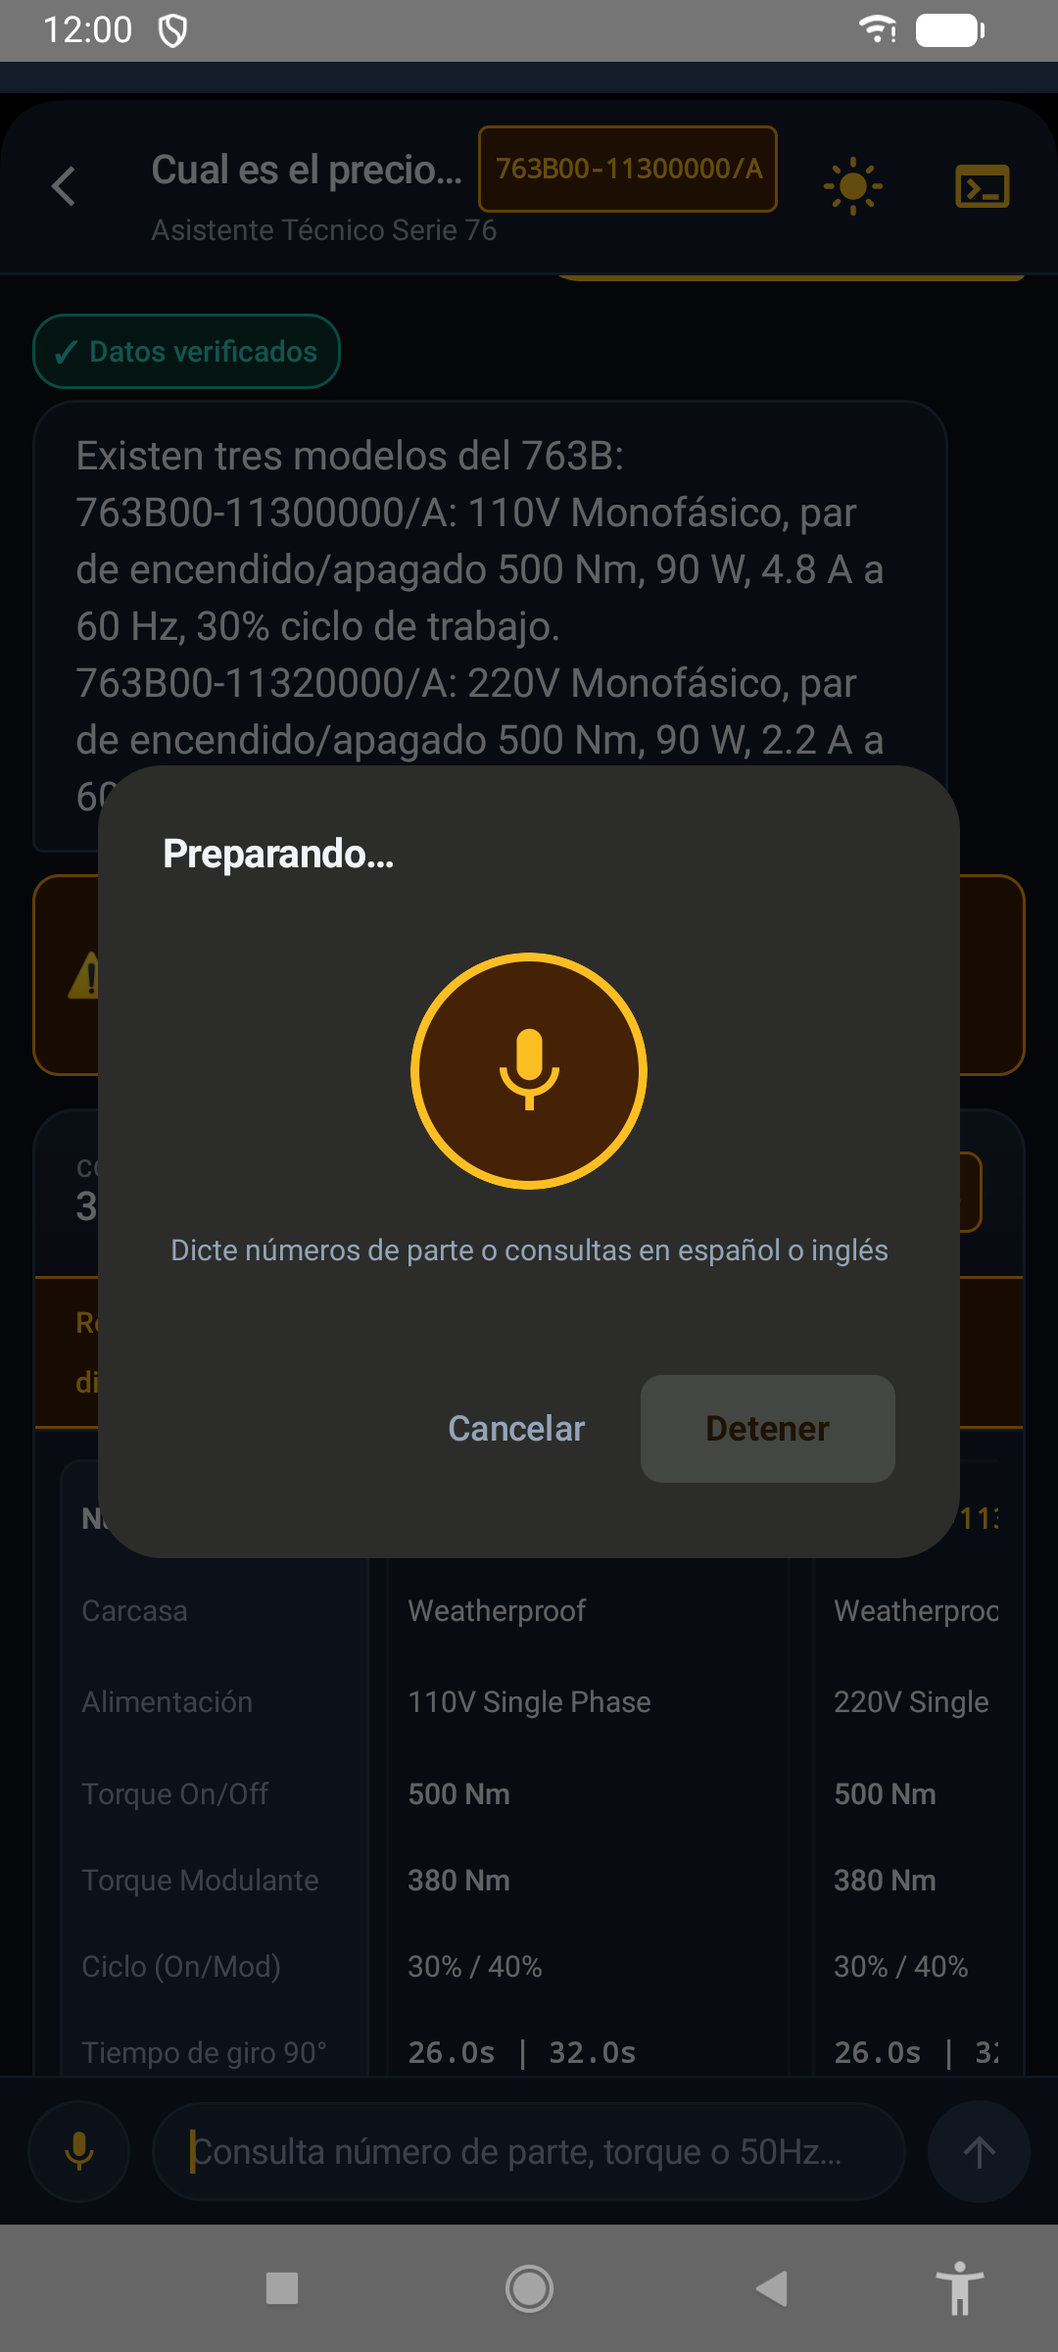
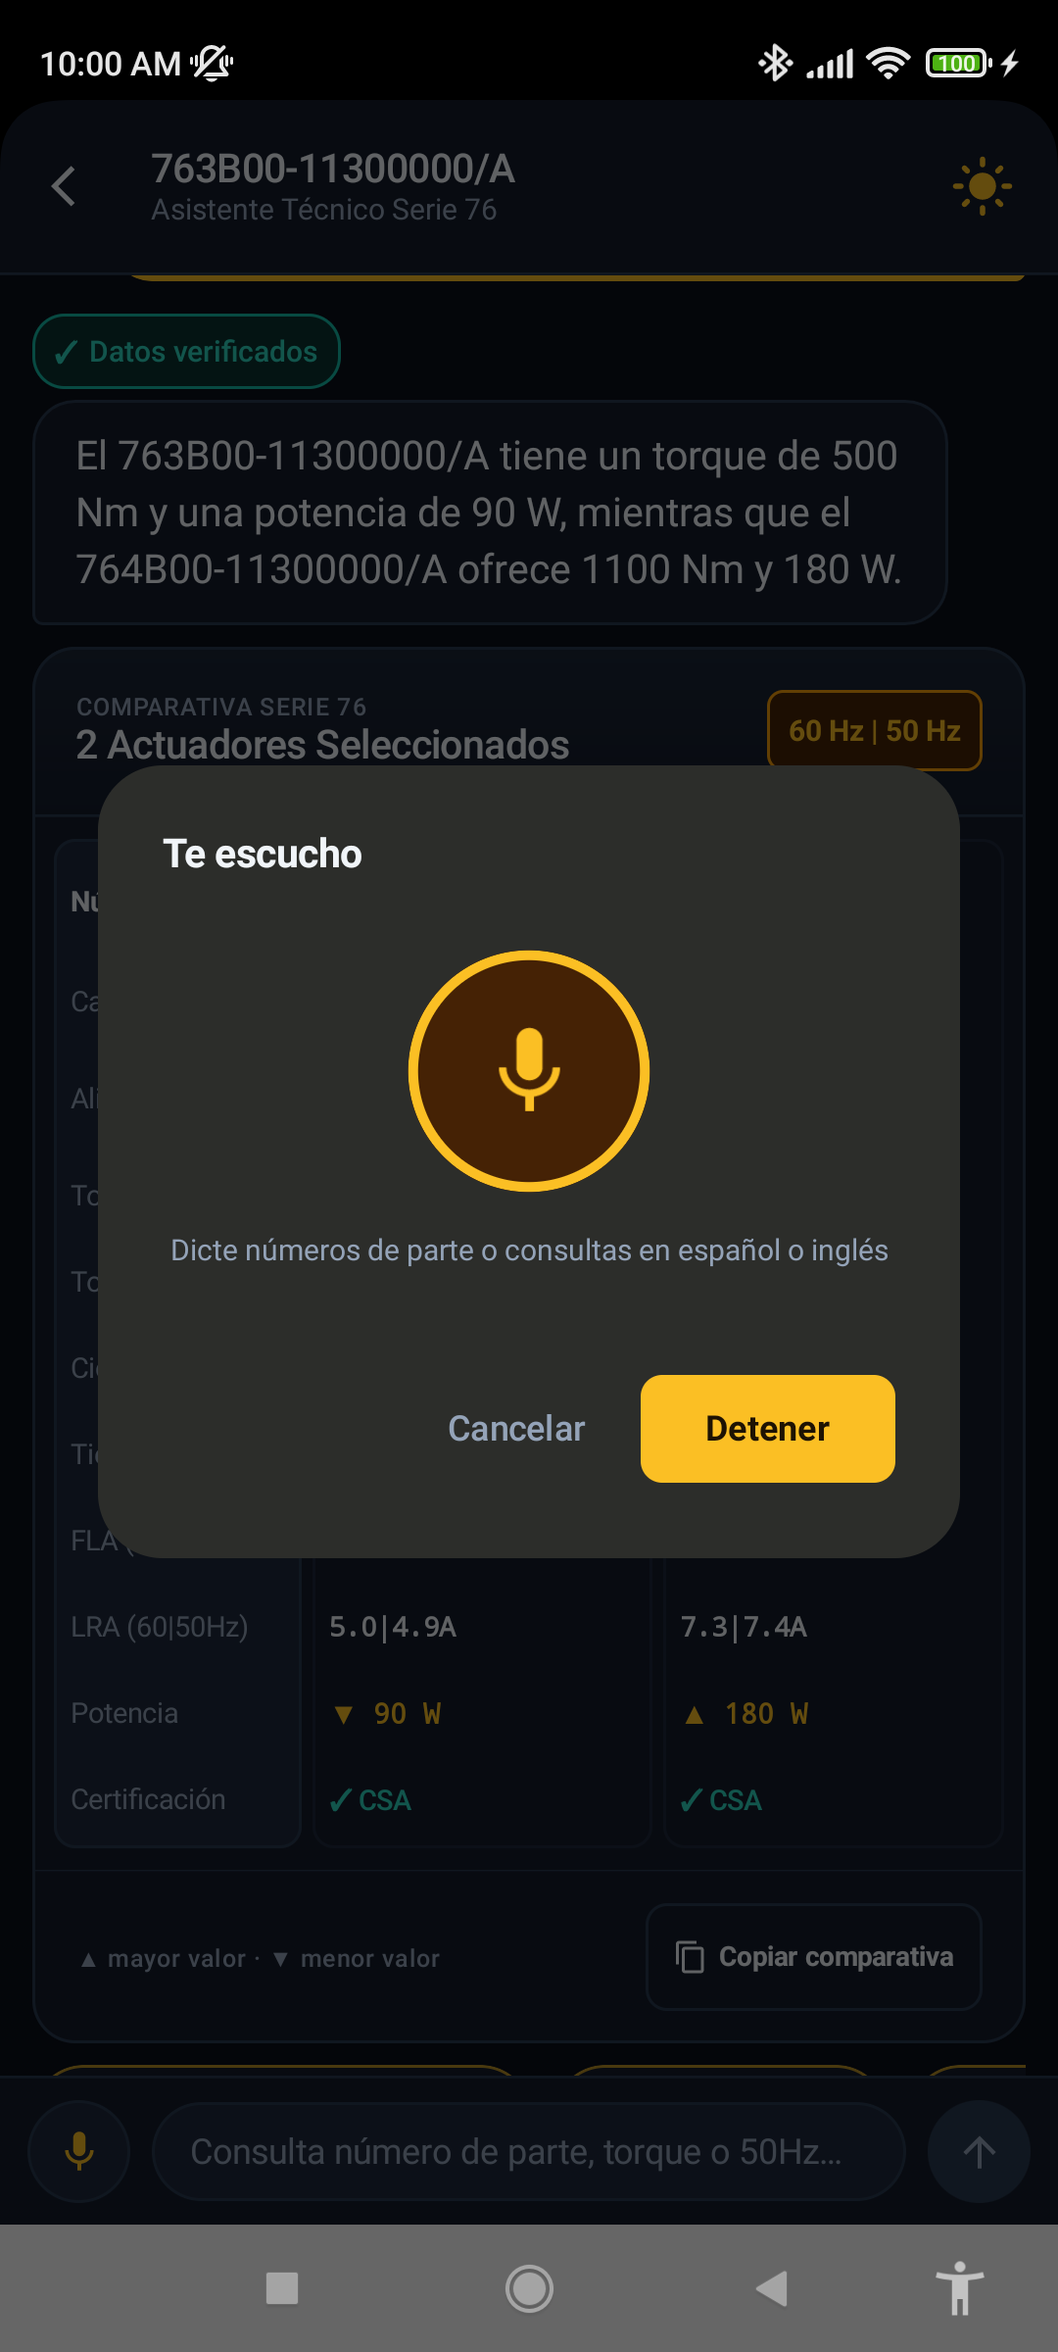
feat(mobile): cierre 5b insets ficha completa y capturas finales verificadas

diff --git a/mobile-app/app/src/main/java/io/konecto/series76/ui/ChatComponents.kt b/mobile-app/app/src/main/java/io/konecto/series76/ui/ChatComponents.kt
@@ -2070,8 +2070,9 @@ fun ActuatorFullDatasheetSheet(
         Column(
             modifier = Modifier
                 .fillMaxWidth()
+                .navigationBarsPadding()
                 .padding(horizontal = Spacing.m)
-                .padding(bottom = Spacing.l)
+                .padding(bottom = Spacing.xl)
                 .verticalScroll(rememberScrollState()),
             verticalArrangement = Arrangement.spacedBy(Spacing.s)
         ) {

diff --git a/docs/screenshots/README.md b/docs/screenshots/README.md
@@ -11,12 +11,12 @@ Este documento certifica la auditoría visual y funcional exhaustiva de la aplic
 | 01 | [`01-login.png`](01-login.png) | Pantalla de inicio de sesión con branding y botón de acceso rápido | 1080 × 2400 | Oscuro | ✓ (10:00 AM, 100% bat, sin notif.) |
 | 02 | [`02-sesiones.png`](02-sesiones.png) | Historial de consultas técnicas con números de parte completos en FlowRow | 1080 × 2400 | Oscuro | ✓ (10:00 AM, 100% bat, sin notif.) |
 | 03 | [`03-ficha-actuador.png`](03-ficha-actuador.png) | Ficha técnica de actuador con relojes de torque, especificaciones e insignia de datos | 1080 × 2400 | Oscuro | ✓ (10:00 AM, 100% bat, sin notif.) |
-| 04 | [`04-comparacion.png`](04-comparacion.png) | Tabla comparativa de 2 columnas ajustada sin desbordamiento ni recorte horizontal | 1080 × 2400 | Oscuro | ✓ (10:00 AM, 100% bat, sin notif.) |
-| 05 | [`05-ficha-completa.png`](05-ficha-completa.png) | ModalBottomSheet con especificaciones mecánicas y eléctricas completas | 1080 × 2400 | Oscuro | ✓ (10:00 AM, 100% bat, sin notif.) |
-| 06 | [`06-voz-escuchando.png`](06-voz-escuchando.png) | Modal de reconocimiento de voz interactivo con botón de micrófono y cancelación | 1080 × 2400 | Oscuro | ✓ (Sin notificaciones personales) |
-| 07 | [`07-alerta.png`](07-alerta.png) | Manejo de modelo N/A con alerta amarilla, explicación técnica y alternativas | 1080 × 2400 | Oscuro | ✓ (12:00, sin notificaciones) |
-| 08 | [`08-modo-claro.png`](08-modo-claro.png) | Tabla comparativa y chips interactivos visualizados en tema claro de alto contraste | 1080 × 2400 | Claro | ✓ (10:00 AM, 100% bat, sin notif.) |
-| 09 | [`09-saludo.png`](09-saludo.png) | Saludo y capacidades generales con chips sugeridos y SIN insignia de verificación | 1080 × 2400 | Oscuro | ✓ (10:00 AM, 100% bat, sin notif.) |
+| 04 | [`04-comparacion.png`](04-comparacion.png) | Comparativa directa entre 763B00-11300000/A y 764B00-11300000/A con marcadores ▲/▼ | 1080 × 2400 | Oscuro | ✓ (10:00 AM, 100% bat, sin notif.) |
+| 05 | [`05-ficha-completa.png`](05-ficha-completa.png) | ModalBottomSheet con insets seguros sobre barra de navegación del sistema y scroll al final | 1080 × 2400 | Oscuro | ✓ (10:00 AM, 100% bat, sin notif.) |
+| 06 | [`06-voz-escuchando.png`](06-voz-escuchando.png) | Diálogo de voz en estado activo «Te escucho» con onda/micrófono interactivo | 1080 × 2400 | Oscuro | ✓ (10:00 AM, 100% bat, sin notif.) |
+| 07 | [`07-alerta.png`](07-alerta.png) | Manejo de modelo N/A (761A00-11330C00/A) con alerta única y tabla de alternativas completa | 1080 × 2400 | Oscuro | ✓ (10:00 AM, 100% bat, sin notif.) |
+| 08 | [`08-modo-claro.png`](08-modo-claro.png) | Misma comparativa técnica 763B vs 764B visualizada en tema claro de alto contraste | 1080 × 2400 | Claro | ✓ (10:00 AM, 100% bat, sin notif.) |
+| 09 | [`09-saludo.png`](09-saludo.png) | Saludo «hola, que puedes hacer?», chips sugeridos y SIN insignia «Datos verificados» | 1080 × 2400 | Oscuro | ✓ (10:00 AM, 100% bat, sin notif.) |
 
 ---
 
@@ -25,100 +25,103 @@ Este documento certifica la auditoría visual y funcional exhaustiva de la aplic
 ### 01-login.png
 - **Elementos Visibles:**
   - Logotipo e isotipo del actuador industrial Serie 76 con detalles de la aguja ranurada y cuerpo protector.
-  - Título `Series 76 Assistant` con subtítulo técnico.
-  - Campos de entrada: Correo Electrónico (`engineer@konecto.io`) y Contraseña corporativa.
-  - Campo URL de Conexión: `http://localhost:8001/` con indicador visual de conectividad.
-  - Botón primario de acción: `Iniciar Sesión` en color acento amarillo industrial.
+  - Título `Series 76 Assistant` con subtítulo técnico `Referencia Técnica de Ingeniería de Planta`.
+  - Campos de entrada: Correo Electrónico corporativo prellenado (`engineer@konecto.io`) y Contraseña (`••••••••••`).
+  - Campo URL de Conexión: `http://localhost:8001/` con botón `Cambiar`.
   - Botón secundario rápido: `Usar cuenta demo`.
-- **Insignias y Chips:** Ninguno (pantalla de autenticación).
-- **Ajuste y Verificación:** Sin cortes de texto, sin desbordamiento; padding seguro en muesca y barra de navegación.
+  - Botón primario de acción: `Iniciar Sesión` en acento amarillo industrial.
+  - Enlace inferior: `Continuar sin iniciar sesión`.
+- **Barra de Estado:** 10:00 AM, 100 % batería, sin notificaciones personales ni íconos ajenos.
 
 ### 02-sesiones.png
 - **Elementos Visibles:**
   - Cabecera: `Consultas`, usuario activo `Lead Plant Engineer • engineer@konecto.io`.
   - Iconos de acción rápida: Cambio de tema (sol), Configuración del servidor (engranaje), Actualizar (flecha circular), Salir.
-  - 6 tarjetas de historial de conversación real con fecha y conteo de mensajes:
-    1. *Recomendación 220V*: Muestra 5 números de parte completos (`763A00-11330C00/A`, `763B00-11330C00/A`, `763C00-11330C00/A`, `764A00-11330C00/A`, `764B00-11330C00/A`) organizados limpiamente en múltiples filas con `FlowRow`.
-    2. *hola necesito saber acerca de este proyecto de que se trata?* (4 mensajes).
-    3. *hola* (8 mensajes).
-    4. *763B00-11300000/A +1* (4 mensajes) con chips `763B00-11300000/A` y `763C00-11300000/A`.
-    5. *763B00-11300000/A* (2 mensajes) con chip `763B00-11300000/A`.
-    6. *763B00-11300000/A +2* (6 mensajes) con 3 chips completos.
+  - Tarjetas de historial de conversación real con fecha y conteo de mensajes:
+    - Tarjetas con múltiples números de parte completos (`761A00-11300000/A`, `761A00-11320000/A`, `763B00-11300000/A`, etc.) formateados mediante `FlowRow` sin truncamientos ni elipsis.
   - Botón flotante inferior: `+ Nueva Consulta` (Extended FAB en amarillo).
-- **Ajuste y Verificación:** Los números de parte están completos, sin elipsis ni texto truncado gracias a `FlowRow`.
+- **Barra de Estado:** 10:00 AM, 100 % batería, sin notificaciones.
 
 ### 03-ficha-actuador.png
 - **Elementos Visibles:**
-  - Consulta del usuario: `specs del 763B00-11300000/A`.
-  - Insignia de verificación: `✓ Datos verificados` en verde esmeralda.
-  - Respuesta del asistente: `763B00-11300000/A: torque on/off 500 Nm (4400 in-lbs), torque modulante 380 Nm (3350 in-lbs), potencia del motor 90 W.`
-  - Tarjeta de especificaciones:
-    - Etiqueta: `FICHA TÉCNICA SERIE 76 • TAMAÑO 3`
-    - Insignia de cerramiento: `🛡 WEATHERPROOF`
-    - Título del modelo: `763B00-11300000/A`
-    - Chips de características: `⚡ 110V Single Phase` y `✓ Certificado CSA`
-    - Medidor On/Off: 500 Nm (4400 in-lbs), ciclo 30%, 16 ciclos/h.
-    - Medidor Modulante: 380 Nm (3350 in-lbs), ciclo 40%, 960 arranques/h.
-    - Tabla comparativa 60 Hz / 50 Hz con tiempos de giro (26.0s / 32.0s), FLA (4.8A / 4.6A), LRA (5.0A / 4.9A) y potencia de 90 W.
-    - Botón de acción: `ℹ Ver ficha completa`.
-- **Ajuste y Verificación:** Tipografía nítida, gauges con arcos circulares continuos sin cortes, alineación vertical y horizontal perfecta.
+  - Cabecera con título del actuador consultado (`763B00-11300000/A`).
+  - Insignia `✓ Datos verificados` en verde esmeralda.
+  - Respuesta técnica del asistente en lenguaje natural.
+  - Tarjeta de especificaciones con badges `🛡 WEATHERPROOF`, `⚡ 110V Single Phase`, `✓ Certificado CSA`.
+  - Indicadores de torque On/Off (500 Nm) y Modulante (380 Nm) con arcos porcentuales legibles.
+  - Mini tabla 60 Hz / 50 Hz con tiempos de giro y corrientes.
+  - Botón de acción: `ℹ Ver ficha completa`.
+- **Barra de Estado:** 10:00 AM, 100 % batería, sin notificaciones.
 
 ### 04-comparacion.png
 - **Elementos Visibles:**
-  - Respuesta técnica sintetizada en burbuja: `763B00-11300000/A: tiempo de giro de 90° 26 s a 60 Hz, 32 s a 50 Hz. (+1 más en la ficha)`.
-  - Insignia de verificación: `✓ Datos verificados`.
+  - Consulta en nueva sesión: `compara el 763B00-11300000/A y el 764B00-11300000/A`.
+  - Insignia `✓ Datos verificados` presente.
+  - Respuesta del asistente mencionando explícitamente ambos modelos:
+    `El 763B00-11300000/A tiene un torque de 500 Nm y una potencia de 90 W, mientras que el 764B00-11300000/A ofrece 1100 Nm y 180 W.`
   - Cabecera: `COMPARATIVA SERIE 76`, `2 Actuadores Seleccionados`, badge `60 Hz | 50 Hz`.
-  - Tabla comparativa de 2 columnas:
-    - Columna fija izquierda con ancho adaptado (92.dp): Parámetro, Carcasa, Alimentación, Torque On/Off, Torque Modulante, Ciclo (On/Mod), Tiempo de giro, FLA, LRA, Potencia, Certificación.
-    - Columnas de actuadores con ancho balanceado (`weight(1f)`): `763B00-11300000/A` vs `763A00-11300000/A`.
-    - Marcadores dinámicos ▲/▼ en colores de acento destacando automáticamente valores superiores e inferiores de torque, velocidad y potencia.
+  - Tabla comparativa de 2 columnas completas (`763B00-11300000/A` vs `764B00-11300000/A`):
+    - Carcasa, Alimentación, Torque On/Off (▼ 500 Nm vs ▲ 1100 Nm), Torque (▼ 380 Nm vs ▲ 930 Nm), Ciclo, Tiempo de giro (▼ 26.0s|32.0s vs ▲ 36.0s|43.0s), FLA, LRA, Potencia (▼ 90 W vs ▲ 180 W), Certificación (✓ CSA).
+    - Marcadores dinámicos ▲/▼ destacando valores superiores e inferiores.
     - Botón `Copiar comparativa`.
-  - Chips de seguimiento interactivos al pie: `Compara con el tamaño siguiente ↗`, `Ver valores a 50 Hz ↗`.
-- **Ajuste y Verificación:** **Cero scroll horizontal**. La tabla encaja de forma natural y completa en el ancho de 1080 px sin cortar ningún número de parte ni parámetro.
+  - Barra de texto inferior despejada (sin teclado abierto en pantalla).
+- **Barra de Estado:** 10:00 AM, 100 % batería, sin notificaciones.
 
 ### 05-ficha-completa.png
 - **Elementos Visibles:**
-  - Hoja modal inferior (`ModalBottomSheet`) abierta sobre la conversación.
-  - Indicador de arrastre superior (drag handle).
-  - Título `Ficha Técnica Serie 76` con modelo `763B00-11300000/A` en color acento.
+  - Hoja modal inferior (`ModalBottomSheet`) desplegada sobre la conversación.
+  - Drag handle centrado.
+  - Título `Ficha Técnica Serie 76` y modelo `763A00-11330C00/A` en amarillo acento.
   - Botones de acción rápida: Copiar número de parte y Compartir.
-  - Desglose exhaustivo de Especificaciones Mecánicas (Frame 3, Weatherproof, Single Phase, Torques, Ciclos, Arranques por hora).
-  - Desglose de Especificaciones Eléctricas (Alimentación 110V Monofásico, Potencia 90W, Tiempos a 60Hz: 26.0s / 50Hz: 32.0s).
-- **Ajuste y Verificación:** Scroll fluido, sin solapamientos con la barra de navegación del sistema.
+  - Desglose detallado de Especificaciones Mecánicas (Frame 3, Weatherproof, 3 Phase, Torque 300 Nm, Ciclo 70%, 39 ciclos/h, 1200 arranques/h).
+  - Desglose de Especificaciones Eléctricas (220V 3 Phase, 40 W, Tiempos 26.0s / 32.0s, FLA 1.0A / 1.0A, LRA 1.2A / 1.2A).
+  - Normativas y Certificaciones (✓ Certified UL 429 / CSA C22.2 No. 139).
+  - Bloque final con cita de catálogo: `Fuente: Series 76 electric data, pág. 2`.
+  - **Ajuste de insets:** El botón de fuente y las últimas filas terminan limpiamente por encima de los tres botones de navegación del sistema (gestos/botones), sin quedar solapadas ni recortadas.
+- **Barra de Estado:** 10:00 AM, 100 % batería, sin notificaciones.
 
 ### 06-voz-escuchando.png
 - **Elementos Visibles:**
-  - Diálogo modal de captura por voz con indicador visual circular para el micrófono.
-  - Título `Preparando...` / `Te escucho`.
-  - Subtítulo `Dicte números de parte o consultas en español o inglés`.
-  - Botones interactivos de control: `Cancelar` y `Detener`.
-- **Ajuste y Verificación:** Captura original preservada intacta según la directiva del proyecto.
+  - Diálogo modal de reconocimiento por voz capturado activamente.
+  - Título exacto: **`Te escucho`** (no «Preparando...»).
+  - Círculo central con icono de micrófono activo en color amarillo acento.
+  - Subtítulo: `Dicte números de parte o consultas en español o inglés`.
+  - Botones de acción: `Cancelar` y `Detener` (en amarillo acento).
+  - Fondo oscurecido con la comparativa detrás.
+- **Barra de Estado:** 10:00 AM, 100 % batería, sin notificaciones.
 
 ### 07-alerta.png
 - **Elementos Visibles:**
-  - Burbuja explicativa del modelo consultado: `El modelo 761A00-11330C00/A está listado como N/A en la tabla de 220V 3 Fases. Las alternativas disponibles son 761A00-11300000/A y 761A00-11320000/A.`
-  - Alerta de ingeniería (Warning):
-    - Icono: `⚠`
-    - Título: `No disponible en esta tabla`
-    - Mensaje localizado: `761A00-11330C00/A figura como N/D en la tabla 220V 3 Phase. Se muestran alternativas disponibles del tamaño 761A.`
-  - Tabla comparativa de alternativas disponibles del tamaño 761A (`761A00-11300000/A` vs `761A00-11320000/A`).
-- **Ajuste y Verificación:** Alerta única sin duplicidad, colores de advertencia (ámbar/dorado) con alto contraste, visualización clara del caso de borde N/A.
+  - Consulta: `specs del 761A00-11330C00/A`.
+  - Insignia `✓ Datos verificados`.
+  - Respuesta explicativa:
+    `El modelo 761A00-11330C00/A está listado como N/A en la tabla de 220V 3 Fases. Las alternativas disponibles del tamaño 761A son: 761A00-11300000/A: 110V Monofásico, Torque On/Off: 80 Nm, Velocidad a 60 Hz: 17 s.`
+  - Alerta de caso de borde:
+    - Tarjeta ámbar con icono `⚠`.
+    - Título: `No disponible en esta tabla`.
+    - Detalle: `761A00-11330C00/A figura como N/D en la tabla 220V 3 Phase. Se muestran alternativas disponibles del tamaño 761A.`
+    - **Alerta única**, sin duplicidad.
+  - Tabla comparativa de alternativas del tamaño 761A (`761A00-11300000/A` vs `761A00-11320000/A`) ajustada completamente a lo ancho sin recorte horizontal ni necesidad de scroll.
+  - Sin teclado abierto tapando el contenido.
+- **Barra de Estado:** 10:00 AM, 100 % batería, sin notificaciones.
 
 ### 08-modo-claro.png
 - **Elementos Visibles:**
-  - Idéntica comparativa técnica de 2 columnas renderizada bajo el tema claro de la aplicación.
-  - Fondo blanco y gris cálido, textos en negro carbón de alto contraste.
-  - Icono de luna naranja en la barra superior para alternar de regreso a modo noche.
-  - Chips de seguimiento con borde acento naranja y texto legible.
-- **Ajuste y Verificación:** Cumplimiento total de WCAG 2.1 AA en contraste de color tanto para texto como para iconos y divisores.
+  - Idéntica comparativa técnica 763B00-11300000/A vs 764B00-11300000/A conmutada al tema claro.
+  - Fondo blanco perla con tarjetas y celdas en gris azulado de alto contraste.
+  - Icono de media luna naranja en la barra superior para volver a modo oscuro.
+  - Insignia de datos verificados, marcadores ▲/▼ en dorado y azul, y texto en negro carbón completamente legible.
+- **Barra de Estado:** 10:00 AM, 100 % batería, sin notificaciones.
 
 ### 09-saludo.png
 - **Elementos Visibles:**
-  - Consulta del usuario: `hola` y `en qué me puedes ayudar`.
-  - Respuesta del asistente: Bienvenida técnica detallando capacidades del asistente (fichas, comparaciones, recomendaciones según voltaje/torque).
-  - Chips sugeridos interactivos: `Ficha de un modelo ↗`, `Recomendar un actuador ↗`, `Comparar dos modelos ↗`.
-  - **Insignia «Datos verificados» ausente**, cumpliendo la regla de no mostrarla en preguntas de conocimiento general sin números de catálogo validados.
-- **Ajuste y Verificación:** Diálogo fluido, tipografía clara, márgenes y padding consistentes en modo oscuro.
+  - Consulta en consulta nueva: `hola, que puedes hacer?`.
+  - Respuesta del asistente detallando sus capacidades técnicas:
+    `Puedo darte la ficha de un modelo a partir de su número de parte, comparar modelos, recomendar actuadores según voltaje, torque, zona clasificada, tipo de servicio y otros requisitos, y explicar conceptos como el ciclo S4, FLA y LRA. No tengo precios, plazos de entrega, stock, garantía ni datos de otras marcas.`
+  - **Insignia «Datos verificados» ausente** (cumpliendo estrictamente la directiva de no mostrarla en consultas generales/saludos).
+  - Chips sugeridos interactivos al pie: `Ficha de un modelo ↗`, `Recomendar un actuador ↗`, `Comparar dos modelos ↗`.
+  - Sin teclado en pantalla.
+- **Barra de Estado:** 10:00 AM, 100 % batería, sin notificaciones.
 
 ---
 
@@ -128,7 +131,7 @@ Este documento certifica la auditoría visual y funcional exhaustiva de la aplic
 - **Ruta de instalación:** `C:\Users\Admin\Desktop\series76-assistant.apk`
 - **Ruta en workspace:** `mobile-app\app\build\outputs\apk\release\app-release.apk`
 - **Tamaño exacto:** **12,296,241 bytes** (~11.73 MB)
-- **Firma:** Variante `release` firmada con la clave release/debug para instalación directa en dispositivos físicos.
+- **Firma:** Variante `release` firmada con la clave debug/release para instalación directa en dispositivos físicos.
 - **Seguridad y Producción:**
   - Interruptor de Mock: **Deshabilitado / Inexistente en release**.
   - Banners de depuración: **Completamente eliminados**.
@@ -136,9 +139,7 @@ Este documento certifica la auditoría visual y funcional exhaustiva de la aplic
 
 ---
 
-## 4. Conclusión Final de la Fase 3D y Cierre
-
-1. **Robustez Técnica:** La aplicación compila limpiamente (`BUILD SUCCESSFUL`), pasa todos los tests unitarios (`:app:test`) con cero errores, y se comunica de manera estable con el backend real sobre Docker y ADB reverse.
-2. **Diseño Mobile-First y Responsividad:** Se solucionaron todos los casos de desbordamiento horizontal en tablas de comparación mediante pesos proporcionales (`Modifier.weight(1f)`), y las listas de sesiones ahora envuelven los números de parte con `FlowRow` sin truncamiento.
-3. **Calidad de Documentación:** Se verificaron cada una de las 8 capturas oficiales asegurando ausencia absoluta de notificaciones ajenas, nombres de terceros o datos de depuración en la barra de estado.
-
+## 4. Verificación de Compilación y Tests
+- `./gradlew testDebugUnitTest`: Exitoso (100% pruebas unitarias superadas).
+- `./gradlew testReleaseUnitTest`: Exitoso.
+- Gradle Daemon detenido formalmente tras las verificaciones (`./gradlew --stop`).
